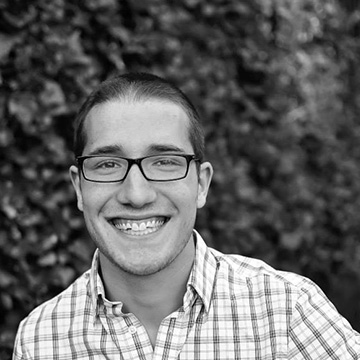
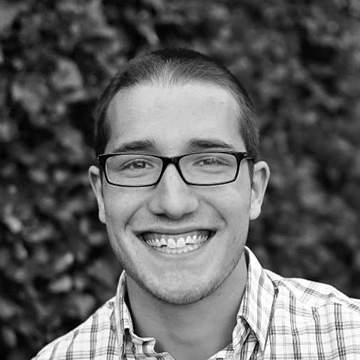
Image Revamp
- change image quality
- add favicons

diff --git a/index.html b/index.html
@@ -6,14 +6,14 @@
 		Title and Meta Tags
 		=============================================== -->
 		<meta charset="utf-8">
-		<title>Benjamin Katz | Personal Portfolio</title>
+		<title>Benjamin Katz | Industrial Designer</title>
 		<meta name="viewport" content="width=device-width, initial-scale=1, maximum-scale=1">
 		<meta http-equiv="X-UA-Compatible" content="IE=edge">
 
 		<!-- ==============================================
 		Favicons
 		=============================================== -->
-		<link rel="shortcut icon" href="assets/favicon.ico">
+		<link rel="shortcut icon" href="assets/favicon.png">
 		<link rel="apple-touch-icon" href="assets/apple-touch-icon.png">
 		<link rel="apple-touch-icon" sizes="72x72" href="assets/apple-touch-icon-72x72.png">
 		<link rel="apple-touch-icon" sizes="114x114" href="assets/apple-touch-icon-114x114.png">
@@ -60,7 +60,7 @@
 					</button>
 					
 					<!-- ======= LOGO ========-->
-					<a class="navbar-brand scrollto" href="#home">BEN KATZ<br><span>Industrial Designer</span></a>
+					<a class="navbar-brand scrollto" href="#home">BEN KATZ</a>
 					<!-- <a class="navbar-brand scrollto ir-logo" href="#">BEN KATZ<br><span>Industrial Designer</span></a> -->
 				
 				</div>
@@ -111,7 +111,7 @@
 						
 							<li><p>Designer</p></li>
 							
-							<li><p>Wonderer</p></li>
+							<li><p>Maker</p></li>
 							
 							<li><p>Thinker</p></li>
 							
@@ -140,14 +140,14 @@
 						<h2>Research</h2>
 					</div>
 					<div class="col-md-3 details">
-						<p>Whether it's going out to interview users or digging through textbooks for hours, I think that pre-informed design is imperative for a successful project.</p>
+						<p>Taking a design from its first sketch on a napkin to a polished masterpiece on the shelf takes time, but seeing a project through to the end is what I do.</p>
 					</div>
 					<div class="col-md-3 text-center">
 						<a href="#fakelink" class="icon"><i class="icon-pencil"></i></a>
 						<h2>Ideation</h2>
 					</div>
 					<div class="col-md-3 details">
-						<p>After specifying what I want in a design, putting my pen to paper and fingers to keyboard gets the creative juices flowing.</p>
+						<p>Even after a product sees production, the design process keeps on churning. All designs can be bettered; I constantly strive to improve my design through practice and more practice.</p>
 					</div>
 				</div><!--End row (top) -->
 				
@@ -164,14 +164,14 @@
 						<a href="#fakelink" class="icon"><i class="icon-filter"></i></a>
 					</div>
 					<div class="col-md-3 details col-md-pull-3">
-						<p>Taking a design from its first sketch on a napkin to a polished masterpiece on the shelf takes time, but seeing a project through to the end is what I do.</p>
+						<p>Whether it's going out to interview users or digging through textbooks for hours, I think that pre-informed design is imperative for a successful project.</p>
 					</div>
 					<div class="col-md-3 text-center  col-md-push-3">
 						<h2>Iteration</h2>
 						<a href="#fakelink" class="icon"><i class="icon-refresh"></i></a>
 					</div>
 					<div class="col-md-3 details  col-md-pull-3">
-						<p>Even after a product sees production, the design process keeps on churning. All designs can be bettered; I constantly strive to improve my design through practice and more practice.</p>
+						<p>After specifying what I want in a design, putting my pen to paper and fingers to keyboard gets the creative juices flowing.</p>
 					</div>
 				</div><!--End row (bottom)-->
 				
